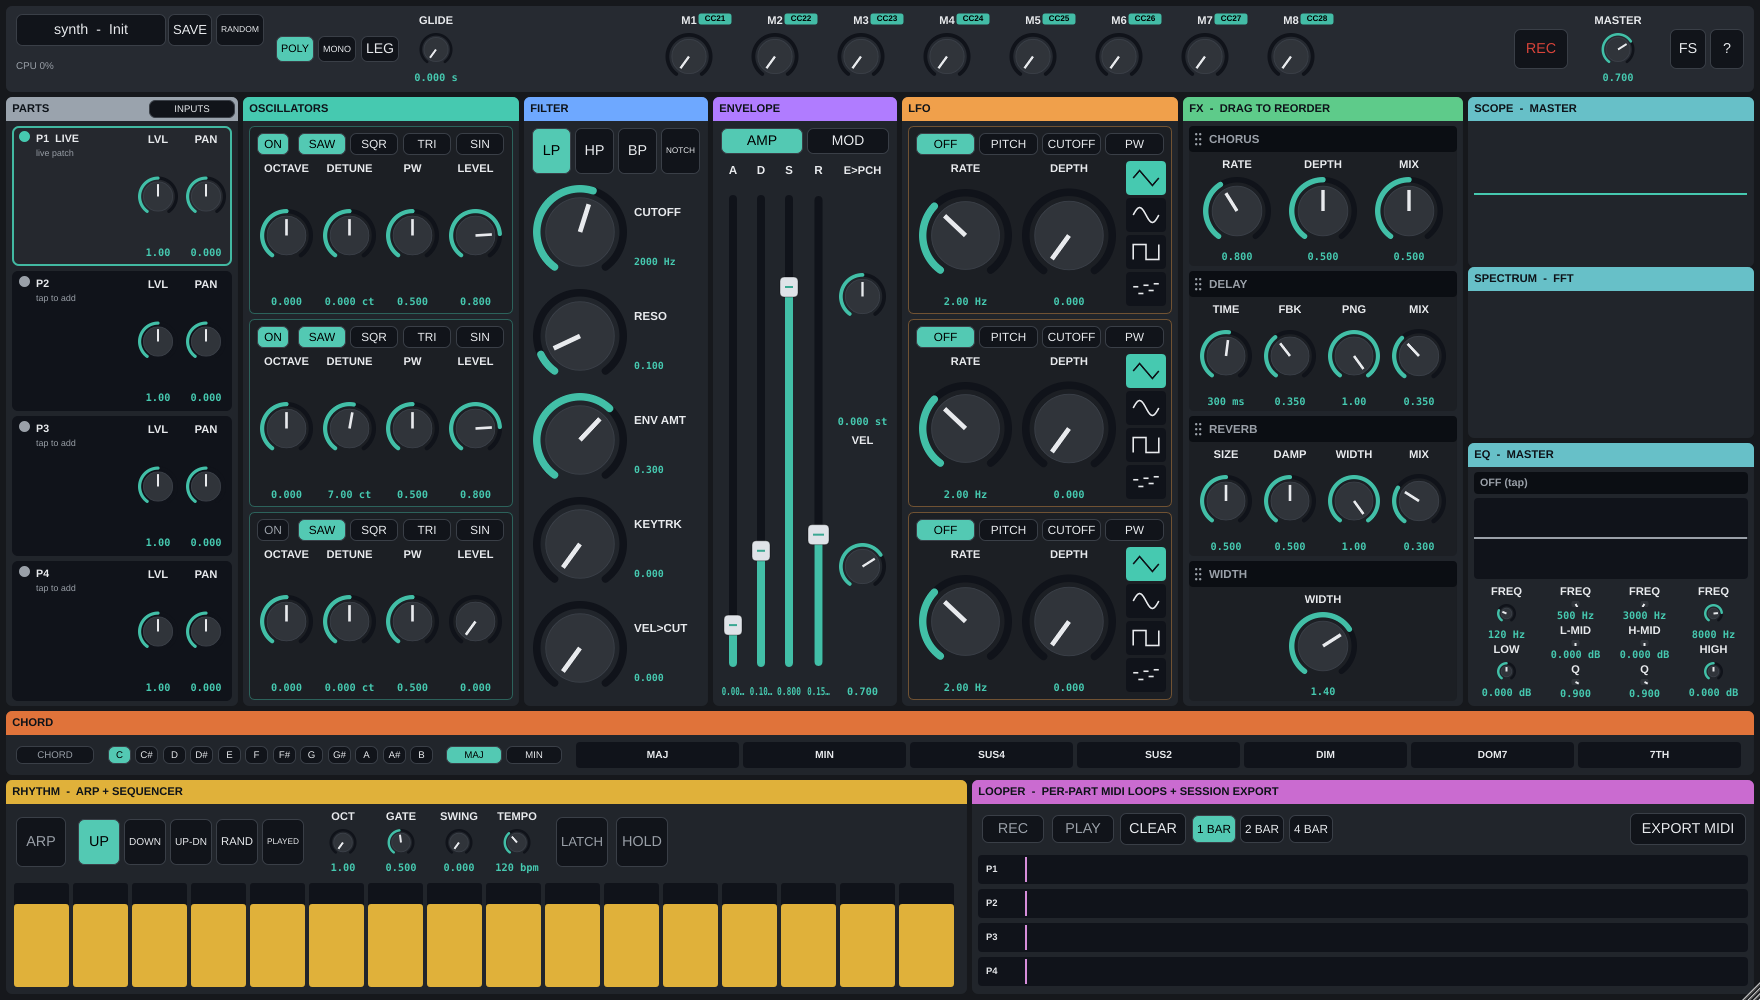
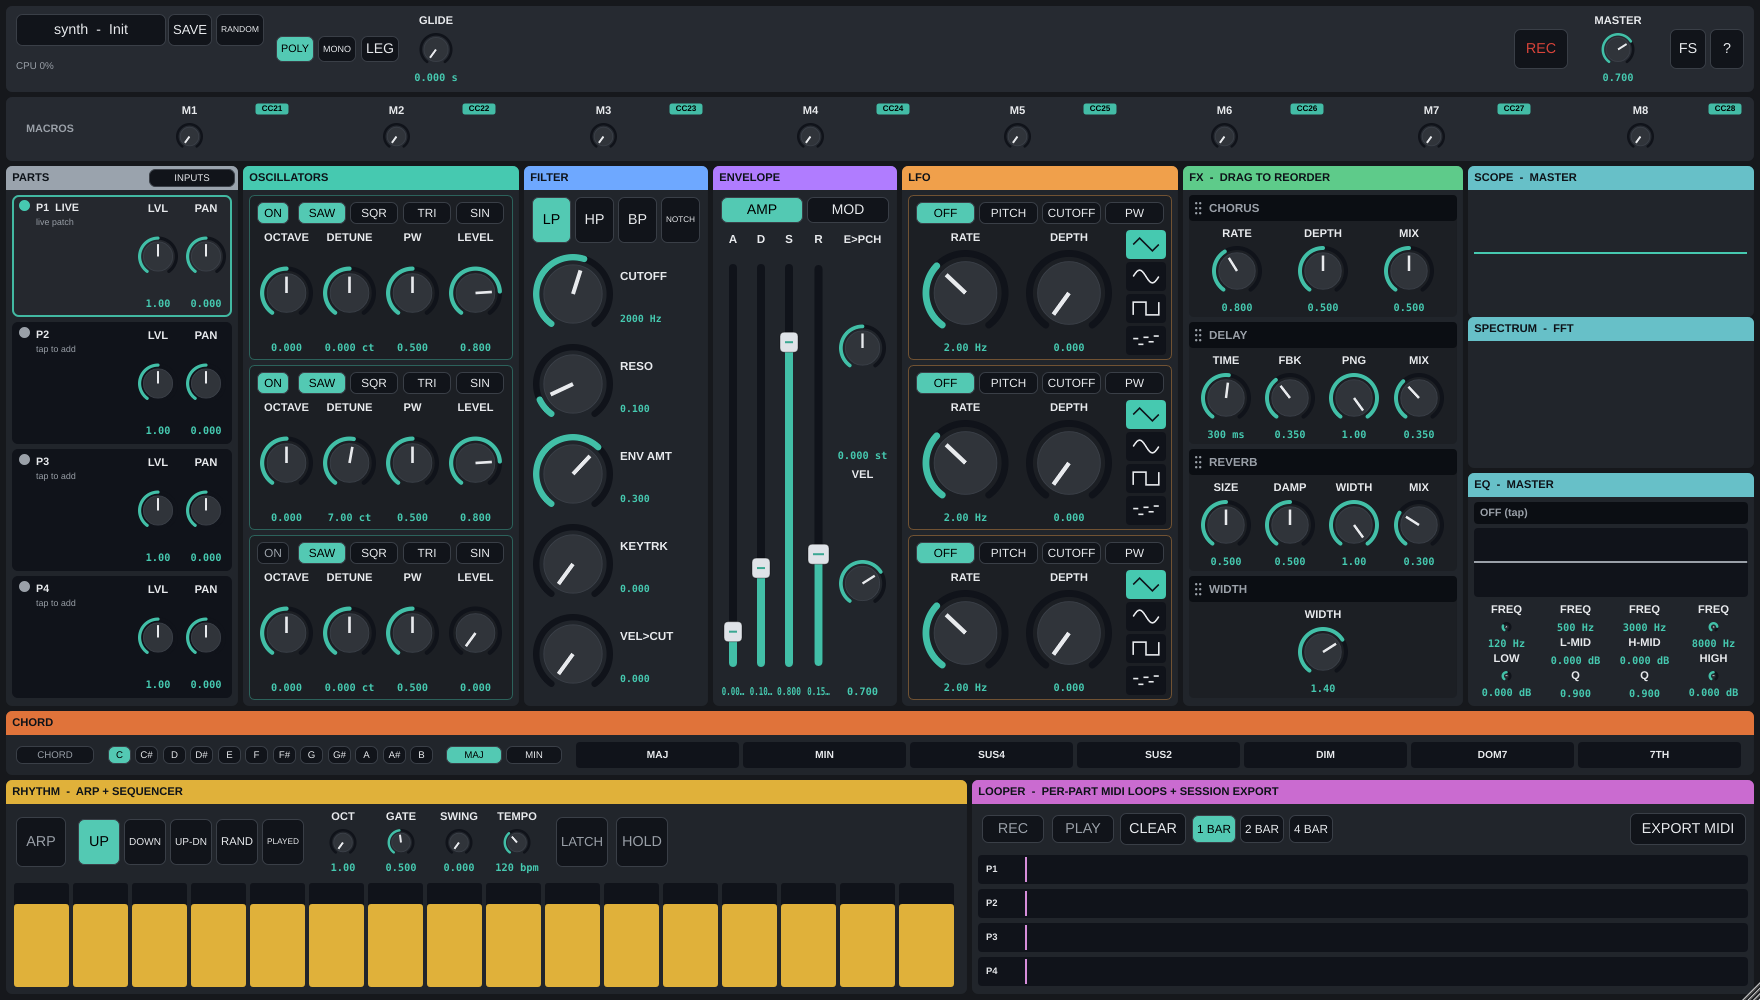
R3 1.2: relocate macros off the native title-bar drag region
Touches on the M1-M8 row (in the top bar, adjacent to the native title bar) were
being hijacked as OS window-move/edge gestures. Moved the 8 macros into their own
MacroStrip (UI/MacroStrip.h) BELOW the top bar, clear of the drag region — routing +
Launchkey-badge behaviour unchanged. The top bar now holds only buttons + two knobs
(master, glide) set in from the top edge.

Audit + guidance (README): fullscreen/kiosk (FS button / F11 / title-bar maximise)
removes the native title bar entirely and is the recommended live mode, so a
top-of-window touch can never become a window gesture. Also refreshed the stale
Custom-UI section to the current R2 layout and the expanded Random exclusions.

Gate: full plugin suite 130 cases (incl. focus invariant, drop-regression, [click]
torture) + Release run-all-checks 206/206 incl. pluginval s8.

diff --git a/Source/UI/TopBar.h b/Source/UI/TopBar.h
@@ -47,8 +47,8 @@ public:
             juce::Random rng;
             presets.randomize (rng);
             proc.randomizeMacros (rng);        // assign 1-4 macros to random params + values
-            currentName = "Random"; refreshTitle(); refreshMacroLabels();
-            if (restoreFocus) restoreFocus();
+            currentName = "Random"; refreshTitle();
+            if (restoreFocus) restoreFocus();  // MacroStrip's timer reflects the new macro map
         };
         addAndMakeVisible (random);
 
@@ -65,19 +65,8 @@ public:
         help.onClick = [this] { if (toggleHelp) toggleHelp(); };
         addAndMakeVisible (help);
 
-        const char* ids[] { ParamID::macro1, ParamID::macro2, ParamID::macro3, ParamID::macro4,
-                            ParamID::macro5, ParamID::macro6, ParamID::macro7, ParamID::macro8 };
-        for (int m = 0; m < 8; ++m)
-        {
-            auto* k = new RotaryKnob (proc.apvts, ids[m], "M" + juce::String (m + 1), proc.getMidiLearn());
-            k->setShowValue (false);                             // no number under macros (shorter top bar)
-            k->setDragPixels ((kDragPixelsForFullRange * 10) / 27);   // ~2.7x responsive (2x, then +35%)
-            macros.add (k); addAndMakeVisible (k);
-            // When a macro moves, drive its assigned target (message-thread routing).
-            const int idx = m;
-            macroAtt.add (new juce::ParameterAttachment (*proc.apvts.getParameter (ids[m]),
-                [this, idx] (float v) { applyMacro (idx, v); }, nullptr));
-        }
+        // The 8 macros live in the MacroStrip below the top bar (defect 1.2: keep touch
+        // targets off the native title-bar drag region).
 
         master = std::make_unique<RotaryKnob> (proc.apvts, ParamID::masterGain, "MASTER", proc.getMidiLearn());
         addAndMakeVisible (*master);
@@ -88,8 +77,7 @@ public:
         glide = std::make_unique<RotaryKnob> (proc.apvts, ParamID::glideTime, "GLIDE", proc.getMidiLearn());
         addAndMakeVisible (*mode); addAndMakeVisible (*glide);
 
-        refreshMacroLabels();
-        startTimerHz (4);   // CPU readout + macro-label resync (map may change on preset load)
+        startTimerHz (4);   // CPU readout
     }
 
     void paint (juce::Graphics& g) override
@@ -121,15 +109,7 @@ public:
 
         // Voice group (poly/mono/legato + glide), just right of the preset area.
         mode->setBounds (tb.removeFromLeft (128).withSizeKeepingCentre (128, 30)); tb.removeFromLeft (6);
-        glide->setBounds (tb.removeFromLeft (56)); tb.removeFromLeft (12);
-
-        // 8 macro knobs, packed together (fixed width) and centred in the free span
-        // between the voice group and the right cluster.
-        const int mw = juce::jmin (86, tb.getWidth() / 8);
-        const int pack = mw * 8;
-        tb.removeFromLeft (juce::jmax (0, (tb.getWidth() - pack) / 2));   // centre the group
-        for (int m = 0; m < macros.size(); ++m)
-            macros[m]->setBounds (tb.removeFromLeft (mw));
+        glide->setBounds (tb.removeFromLeft (56));
     }
 
     // Update the shown patch name from outside (e.g. a factory load elsewhere).
@@ -141,27 +121,6 @@ private:
         const int cpu = (int) juce::roundToInt (proc.health.snapshot().cpuPercent);
         auto line = "CPU " + juce::String (juce::jlimit (0, 999, cpu)) + "%";
         if (line != statusLine) { statusLine = line; repaint (statusArea); }
-        refreshMacroLabels();     // map can change on preset/session load
-    }
-
-    // Drive a macro's assigned target parameter (message thread).
-    void applyMacro (int idx, float value)
-    {
-        const auto id = proc.getMacroTargetId (idx);
-        if (id.isEmpty()) return;
-        if (auto* target = proc.apvts.getParameter (id))
-            if (! juce::approximatelyEqual (target->getValue(), value))
-                target->setValueNotifyingHost (value);
-    }
-
-    // Macro knob shows its assigned target's short name (or M1..M8 when unassigned).
-    void refreshMacroLabels()
-    {
-        for (int m = 0; m < macros.size(); ++m)
-        {
-            const auto tgt = proc.getMacroTargetName (m);
-            macros[m]->setDisplayName (tgt.isNotEmpty() ? tgt : ("M" + juce::String (m + 1)));
-        }
     }
 
     void refreshTitle() { presetBtn.setButtonText ("synth  -  " + currentName); }
@@ -226,8 +185,6 @@ private:
     std::function<void()> restoreFocus, toggleHelp, toggleFullscreen;
 
     juce::TextButton presetBtn, save, random, rec, full, help;
-    juce::OwnedArray<RotaryKnob> macros;
-    juce::OwnedArray<juce::ParameterAttachment> macroAtt;
     std::unique_ptr<RotaryKnob> master, glide;
     std::unique_ptr<HSelector> mode;
     juce::Rectangle<int> statusArea;

diff --git a/Source/UI/MacroStrip.h b/Source/UI/MacroStrip.h
@@ -1,0 +1,84 @@
+#pragma once
+#include <juce_audio_processors/juce_audio_processors.h>
+#include "VASynthLookAndFeel.h"
+#include "PanelChrome.h"
+#include "Widgets.h"
+#include "../PluginProcessor.h"
+
+// ============================================================================
+// MACRO strip — the 8 performance macros (M1-M8), sitting at the top of the centre
+// panel BELOW the top bar (not in it). Relocated here so finger touches never land
+// on the native title-bar drag region and get hijacked as window-move/edge gestures
+// (defect 1.2). Each macro drives its assigned destination (message-thread routing)
+// and shows the destination's name; MIDI-learnable + focus-refusing. The 8 Launchkey
+// pots (CC 21-28) map here by default.
+// ============================================================================
+
+class MacroStrip : public juce::Component,
+                   private juce::Timer
+{
+public:
+    explicit MacroStrip (VASynthProcessor& p) : proc (p)
+    {
+        setWantsKeyboardFocus (false);
+        const char* ids[] { ParamID::macro1, ParamID::macro2, ParamID::macro3, ParamID::macro4,
+                            ParamID::macro5, ParamID::macro6, ParamID::macro7, ParamID::macro8 };
+        for (int m = 0; m < 8; ++m)
+        {
+            auto* k = new RotaryKnob (proc.apvts, ids[m], "M" + juce::String (m + 1), proc.getMidiLearn());
+            k->setShowValue (false);
+            k->setDragPixels ((kDragPixelsForFullRange * 10) / 27);   // ~2.7x responsive
+            macros.add (k); addAndMakeVisible (k);
+            const int idx = m;
+            macroAtt.add (new juce::ParameterAttachment (*proc.apvts.getParameter (ids[m]),
+                [this, idx] (float v) { applyMacro (idx, v); }, nullptr));
+        }
+        refreshLabels();
+        startTimerHz (4);   // reflect target-map changes (Random / preset load)
+    }
+
+    void paint (juce::Graphics& g) override
+    {
+        g.setColour (VASynthLookAndFeel::panelLight());
+        g.fillRoundedRectangle (getLocalBounds().toFloat(), 6.0f);
+        g.setColour (VASynthLookAndFeel::dim());
+        g.setFont (juce::Font (juce::FontOptions (12.0f, juce::Font::bold)));
+        g.drawText ("MACROS", labelArea, juce::Justification::centred, false);
+    }
+
+    void resized() override
+    {
+        auto r = getLocalBounds().reduced (8, 6);
+        labelArea = r.removeFromLeft (72);
+        const int n = macros.size();
+        const int kw = juce::jmax (10, r.getWidth() / n);
+        for (int m = 0; m < n; ++m)
+            macros[m]->setBounds ((m < n - 1 ? r.removeFromLeft (kw) : r).reduced (4, 0));
+    }
+
+private:
+    void applyMacro (int idx, float value)
+    {
+        const auto id = proc.getMacroTargetId (idx);
+        if (id.isEmpty()) return;
+        if (auto* target = proc.apvts.getParameter (id))
+            if (! juce::approximatelyEqual (target->getValue(), value))
+                target->setValueNotifyingHost (value);
+    }
+    void refreshLabels()
+    {
+        for (int m = 0; m < macros.size(); ++m)
+        {
+            const auto tgt = proc.getMacroTargetName (m);
+            macros[m]->setDisplayName (tgt.isNotEmpty() ? tgt : ("M" + juce::String (m + 1)));
+        }
+    }
+    void timerCallback() override { refreshLabels(); }
+
+    VASynthProcessor& proc;
+    juce::OwnedArray<RotaryKnob> macros;
+    juce::OwnedArray<juce::ParameterAttachment> macroAtt;
+    juce::Rectangle<int> labelArea;
+
+    JUCE_DECLARE_NON_COPYABLE_WITH_LEAK_DETECTOR (MacroStrip)
+};

diff --git a/Source/PluginEditor.h b/Source/PluginEditor.h
@@ -9,6 +9,7 @@
 #include "UI/Sections.h"
 #include "UI/FXPanel.h"
 #include "UI/TopBar.h"
+#include "UI/MacroStrip.h"
 #include "UI/PartRail.h"
 #include "UI/ScopeView.h"
 #include "UI/EQPanel.h"
@@ -123,6 +124,7 @@ public:
         const int gap = 5;
 
         topBar->setBounds (area.removeFromTop (86)); area.removeFromTop (gap);
+        macroStrip->setBounds (area.removeFromTop (64)); area.removeFromTop (gap);
 
         if (bottomZones != nullptr)
         {
@@ -186,6 +188,9 @@ private:
                                            [this] { toggleHelp(); },
                                            [this] { toggleFullscreen(); });
         addAndMakeVisible (*topBar);
+
+        macroStrip = std::make_unique<MacroStrip> (proc);
+        addAndMakeVisible (*macroStrip);
 
         partRail = std::make_unique<PartRail> (proc, [this] { restoreQwertyFocus(); });
         addAndMakeVisible (*partRail);
@@ -330,6 +335,7 @@ private:
 
     // R2 layout components.
     std::unique_ptr<TopBar> topBar;
+    std::unique_ptr<MacroStrip> macroStrip;
     std::unique_ptr<PartRail> partRail;
     std::unique_ptr<OscSection> oscSection;
     std::unique_ptr<FilterSection> filterSection;

diff --git a/README.md b/README.md
@@ -318,24 +318,33 @@ a plugin the host owns the keyboard.
 
 ## Custom UI
 
-Hardware-style single-surface panel (`docs/editor.png`), left-to-right in signal
-flow: **Osc 1 · Osc 2 · Mix · Filter · Amp Env · Filter Env · LFO · Global**.
-Vertical faders + touch segmented buttons, each bound to its APVTS parameter via
-attachments (GUI ↔ automation ↔ MIDI-learn all stay in sync), with a live value
-readout. Dark hardware LookAndFeel; FlexBox layout scales with the window.
+Hardware-style single-surface panel (`docs/editor.png`), everything visible at once:
+a **top bar** (preset · Save/Random · poly/mono/legato · glide · master · REC ·
+fullscreen · help), a **MACRO strip** (M1–M8), a left **PART RAIL** (P1–P4 + level/
+pan + INPUTS), the **centre** in signal-flow order (**Oscillators · Filter · Envelope
+· LFO · FX**), a right **Scope + FFT + master EQ**, and a bottom **workstation**
+(Chord bar · Rhythm arp+sequencer · Looper). Every control is bound to its APVTS
+parameter via attachments (GUI ↔ automation ↔ MIDI-learn stay in sync); dark hardware
+LookAndFeel; layout scales with the window.
 
 - **MIDI-learn**: right-click (mouse) or long-press (touch) any control → arms it
   (amber pulse); the next CC binds it and a `CCnn` badge appears. Same gesture
-  clears a mapping. The 8 default Launchkey knobs show badges on first launch.
-- **Presets** (Global section): **Random** shuffles the **sound-design** parameters
-  only (oscillators, filter, envelopes, LFO, FX amounts) for exploration, and
-  leaves your **performance/global** controls put — master gain, velocity routing,
-  poly mode, glide, and MIDI mappings all keep their values (see the single
-  `randomizeExclusions()` list). **Save** stores the current settings by name; the
-  **Load** dropdown recalls them (`~/.config/synth/presets/`).
-- **Fullscreen**: F11 (standalone). **Debug overlay**: F12.
-- QWERTY note input keeps working while twisting controls (controls refuse
-  keyboard focus). VST3 uses the same editor, freely resizable.
+  clears a mapping. The 8 Launchkey Mini pots (CC 21–28) map to **the 8 macros**
+  (M1–M8) by default — assign each macro to a destination, or hit **Random**.
+- **Random** shuffles the **sound-design** parameters only (oscillators, filter,
+  envelopes, LFO, FX amounts) and leaves your **performance** controls put — master
+  gain, velocity routing, poly mode, glide, MIDI mappings, and the whole **rhythm
+  section (arp / sequencer / looper / tempo)** all keep their values (single
+  `randomizeExclusions()` list). It also assigns 1–4 macros to random destinations.
+- **Live / touchscreen use — run fullscreen.** The FS button, **F11**, or the window
+  title-bar's maximise button put the app in kiosk mode, which **removes the native
+  title bar** so a touch near the top of the window can never be hijacked as a
+  window-move/edge gesture. The macros were moved OFF the top bar into their own strip
+  below it for the same reason; the remaining top-bar controls are buttons + two knobs
+  (master, glide) set in from the top edge. Fullscreen is the recommended live mode.
+- **Debug overlay**: F12. **Help**: `?` (Shift+/).
+- QWERTY note input keeps working while twisting controls (controls refuse keyboard
+  focus). VST3 uses the same editor, freely resizable.
 
 ## Observability (logging, health, debugging)
 
